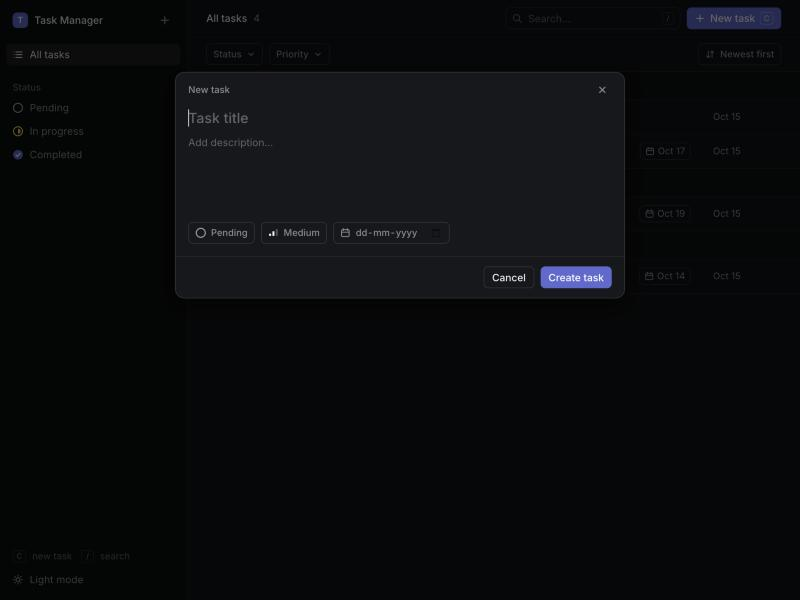
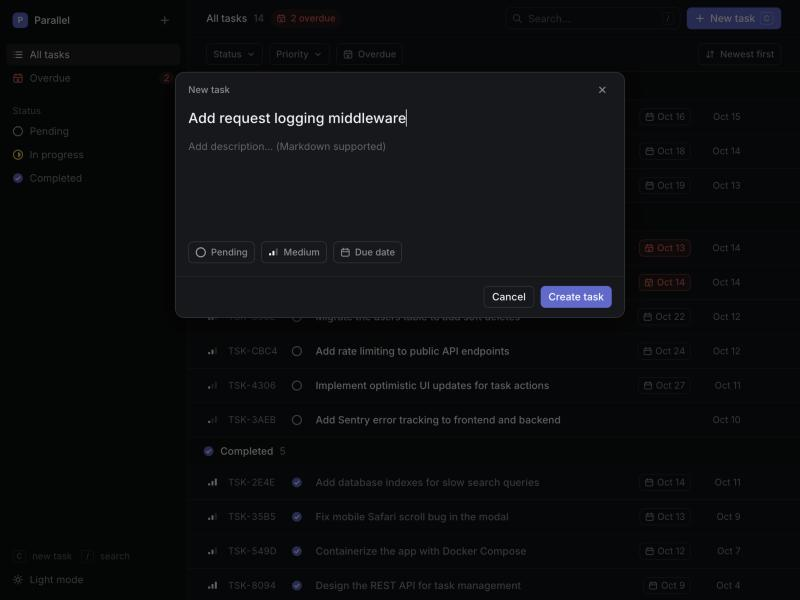
Rename app to Parallel

diff --git a/frontend/src/components/Sidebar.tsx b/frontend/src/components/Sidebar.tsx
@@ -46,9 +46,9 @@ export function Sidebar({ query, overdueCount, onStatus, onOverdue, onNewTask, o
       >
         <div className="flex h-7 items-center gap-2 px-2">
           <span className="flex size-5 items-center justify-center rounded-md bg-accent text-[11px] font-semibold text-accent-fg" aria-hidden="true">
-            T
+            P
           </span>
-          <span className="flex-1 truncate font-medium">Task Manager</span>
+          <span className="flex-1 truncate font-medium">Parallel</span>
           <button className="icon-btn" onClick={() => { onNewTask(); onClose() }} aria-label="New task" title="New task (C)">
             <PlusIcon size={15} />
           </button>

diff --git a/frontend/index.html b/frontend/index.html
@@ -4,7 +4,7 @@
     <meta charset="UTF-8" />
     <link rel="icon" type="image/svg+xml" href="/favicon.svg" />
     <meta name="viewport" content="width=device-width, initial-scale=1.0" />
-    <title>Task Manager</title>
+    <title>Parallel</title>
     <link rel="preconnect" href="https://fonts.googleapis.com" />
     <link rel="preconnect" href="https://fonts.gstatic.com" crossorigin />
     <link href="https://fonts.googleapis.com/css2?family=Inter:wght@400;500;600&display=swap" rel="stylesheet" />

diff --git a/backend/app/core/config.py b/backend/app/core/config.py
@@ -5,7 +5,7 @@ from pydantic_settings import BaseSettings, SettingsConfigDict
 
 
 class Settings(BaseSettings):
-    app_name: str = "Task Management API"
+    app_name: str = "Parallel API"
     api_prefix: str = "/api"
     # Comma-separated list of allowed browser origins.
     cors_origins: str = "http://localhost:5173,http://127.0.0.1:5173"

diff --git a/README.md b/README.md
@@ -1,4 +1,4 @@
-# Task Management System
+# Parallel
 
 Full-stack task manager: **React + TypeScript (Vite, Tailwind)** frontend and **FastAPI** backend.
 Tasks live in **backend memory by default** (as the assignment requires; data resets on restart). Set `DATABASE_URL` and the same API stores them in **PostgreSQL** instead. The Docker setup does exactly that.
